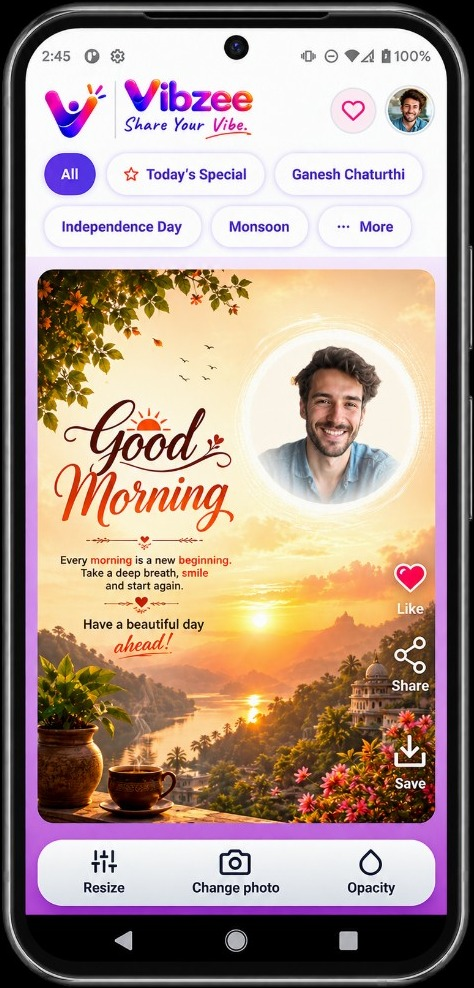
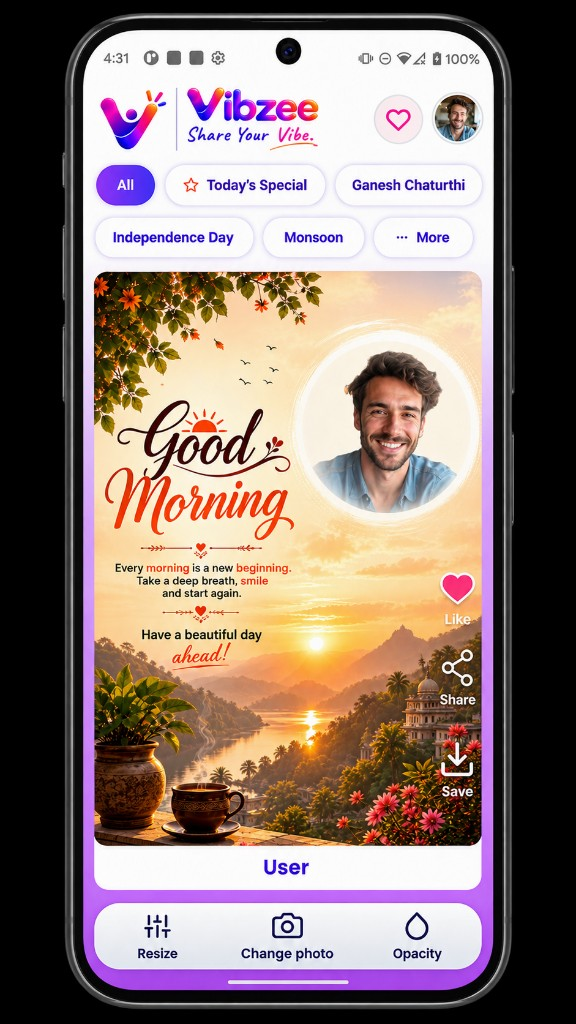
Delete acc addition

diff --git a/assets/site.css b/assets/site.css
@@ -82,7 +82,7 @@ a:hover { text-decoration: underline; }
   align-items: center;
   justify-content: space-between;
   gap: 1rem;
-  padding: 0.75rem 1.5rem;
+  padding: 0.85rem 1.5rem;
   position: sticky;
   top: 0;
   z-index: 50;
@@ -101,18 +101,41 @@ a:hover { text-decoration: underline; }
 .brand img {
   display: block;
   height: auto;
-  max-height: 36px;
+  max-height: 56px;
   width: auto;
 }
 
-.site-header nav { display: flex; gap: 1.25rem; flex-wrap: wrap; }
-.site-header nav a {
-  color: var(--on-surface-variant);
-  font-size: 0.95rem;
-  font-weight: 500;
+.header-actions {
+  display: flex;
+  align-items: center;
+  gap: 1.25rem;
+  flex-wrap: wrap;
+  justify-content: flex-end;
 }
-.site-header nav a:hover { color: var(--primary); text-decoration: none; }
-.site-header nav a[aria-current="page"] { color: var(--primary); font-weight: 700; }
+
+.header-nav {
+  display: flex;
+  align-items: center;
+  gap: 1.15rem;
+  flex-wrap: wrap;
+}
+
+.header-nav a {
+  color: var(--on-surface-variant);
+  font-size: 0.9rem;
+  font-weight: 600;
+  white-space: nowrap;
+}
+
+.header-nav a:hover {
+  color: var(--primary);
+  text-decoration: none;
+}
+
+.header-nav a[aria-current="page"] {
+  color: var(--primary);
+  font-weight: 700;
+}
 
 /* Buttons */
 .btn {
@@ -224,7 +247,7 @@ main {
 
 .hero-logo-desktop {
   display: none;
-  max-width: 128px;
+  max-width: 176px;
   height: auto;
   margin-bottom: 1.5rem;
   filter: drop-shadow(0 4px 16px rgba(255, 52, 205, 0.2));
@@ -280,7 +303,7 @@ main {
   z-index: 1;
   width: 100%;
   max-width: 22rem;
-  aspect-ratio: 474 / 988;
+  aspect-ratio: 456 / 1000;
   background: transparent;
   overflow: visible;
 }
@@ -445,10 +468,30 @@ main {
   margin-bottom: 0.75rem;
   box-shadow: var(--shadow-soft);
   background: var(--surface-container-high);
-  transition: transform 0.3s ease;
+  transition: transform 0.25s ease, box-shadow 0.25s ease, background 0.25s ease, border-color 0.25s ease, color 0.25s ease;
 }
 
-.step-card:hover .step-icon { transform: scale(1.1); }
+.step-card:hover .step-icon {
+  transform: scale(1.12);
+}
+
+.step-card:hover .step-icon-primary {
+  background: rgba(255, 52, 205, 0.22);
+  border-color: var(--primary);
+  box-shadow: 0 12px 28px -6px rgba(255, 52, 205, 0.45);
+}
+
+.step-card:hover .step-icon-secondary {
+  background: rgba(102, 2, 255, 0.22);
+  border-color: var(--secondary);
+  box-shadow: 0 12px 28px -6px rgba(102, 2, 255, 0.45);
+}
+
+.step-card:hover .step-icon-tertiary {
+  background: rgba(209, 125, 0, 0.22);
+  border-color: var(--tertiary);
+  box-shadow: 0 12px 28px -6px rgba(255, 184, 111, 0.4);
+}
 
 .step-icon .material-symbols-outlined { font-size: 2.25rem; }
 .step-icon-primary { border: 1px solid rgba(255, 174, 222, 0.3); color: var(--primary); }
@@ -675,6 +718,16 @@ main {
   border: 1px solid var(--outline-variant);
   color: #fff;
   box-shadow: 0 1px 4px rgba(0, 0, 0, 0.15);
+  cursor: default;
+  transition: transform 0.2s ease, background 0.2s ease, border-color 0.2s ease, box-shadow 0.2s ease, color 0.2s ease;
+}
+
+.theme-chip:hover {
+  background: var(--gradient-cta);
+  border-color: transparent;
+  color: #fff;
+  transform: translateY(-2px) scale(1.06);
+  box-shadow: 0 8px 20px -4px rgba(255, 52, 205, 0.45);
 }
 
 .theme-chip .material-symbols-outlined {
@@ -779,7 +832,7 @@ main {
   display: block;
   margin: 0 auto 0.75rem;
   height: auto;
-  max-height: 32px;
+  max-height: 44px;
   opacity: 0.85;
 }
 
@@ -855,4 +908,7 @@ main {
 
 @media (max-width: 767px) {
   .phone-frame { max-width: 18rem; }
+  .brand img { max-height: 48px; }
+  .header-nav a { font-size: 0.8rem; }
+  .header-actions { gap: 0.75rem; }
 }

diff --git a/delete-account/index.html b/delete-account/index.html
@@ -1,0 +1,55 @@
+<!DOCTYPE html>
+<html lang="en">
+<head>
+  <meta charset="utf-8" />
+  <meta name="viewport" content="width=device-width, initial-scale=1" />
+  <title>Delete Account — Vibzee</title>
+  <meta name="description" content="How to request deletion of your Vibzee mobile app account." />
+  <link rel="stylesheet" href="/assets/site.css" />
+  <link rel="icon" href="/assets/vibzee-icon.png" type="image/png" />
+  <link rel="apple-touch-icon" href="/assets/vibzee-icon.png" />
+  <link rel="preconnect" href="https://fonts.googleapis.com" />
+  <link rel="preconnect" href="https://fonts.gstatic.com" crossorigin />
+  <link href="https://fonts.googleapis.com/css2?family=Plus+Jakarta+Sans:wght@400;600;700;800&display=swap" rel="stylesheet" />
+</head>
+<body>
+  <header class="site-header glass-header">
+    <a class="brand" href="/"><img src="/assets/vibzee-logo.png" alt="Vibzee" width="176" height="72" /></a>
+    <div class="header-actions">
+      <nav class="header-nav" aria-label="Legal">
+        <a href="/privacy">Privacy Policy</a>
+        <a href="/terms">Terms of Service</a>
+        <a href="/delete-account" aria-current="page">Delete Account</a>
+      </nav>
+      <a class="btn btn-gradient btn-sm" href="https://play.google.com/store/apps/details?id=com.vibzee" target="_blank" rel="noopener noreferrer">Get the App</a>
+    </div>
+  </header>
+  <main class="legal">
+    <h1>Delete Account</h1>
+    <article class="cms-content">
+      <p class="updated muted"><strong>Last Updated:</strong> 1 September 2026</p>
+      <p>If you use the Vibzee mobile app and would like to delete your account, you can request account deletion using the instructions below.</p>
+      <h2>How to Request Account Deletion</h2>
+      <p>Users may request deletion of their Vibzee account by emailing <a href="mailto:support@spartacantech.com">support@spartacantech.com</a>.</p>
+      <p>
+        <a class="btn btn-gradient btn-sm" href="mailto:support@spartacantech.com?subject=Vibzee%20Account%20Deletion%20Request">Request Account Deletion</a>
+      </p>
+      <h2>What Happens After Your Request</h2>
+      <p>Following a valid account-deletion request, the user's photograph stored in Vibzee's backend/cloud storage will be automatically deleted within 30 days of the request, subject to any information that Vibzee is legally required or permitted to retain.</p>
+      <h2>Contact</h2>
+      <p>For questions about account deletion, contact us at <a href="mailto:support@spartacantech.com">support@spartacantech.com</a>.</p>
+    </article>
+  </main>
+  <footer class="site-footer">
+    <img src="/assets/vibzee-logo.png" alt="Vibzee" width="128" height="52" class="footer-logo" />
+    <nav class="footer-nav">
+      <a href="/privacy">Privacy Policy</a>
+      <a href="/terms">Terms of Service</a>
+      <a href="/delete-account">Delete Account</a>
+      <a href="mailto:support@vibzee.ai">Contact Us</a>
+    </nav>
+    <p class="muted">&copy; <span id="year"></span> Vibzee. Made with ❤ for India.</p>
+  </footer>
+  <script>document.getElementById('year').textContent = new Date().getFullYear();</script>
+</body>
+</html>

diff --git a/index.html b/index.html
@@ -16,9 +16,16 @@
 <body class="home">
   <header class="site-header glass-header">
     <a class="brand" href="/">
-      <img src="/assets/vibzee-logo.png" alt="Vibzee" width="120" height="49" />
+      <img src="/assets/vibzee-logo.png" alt="Vibzee" width="176" height="72" />
     </a>
-    <a class="btn btn-gradient btn-sm" href="https://play.google.com/store/apps/details?id=com.vibzee" target="_blank" rel="noopener noreferrer">Get the App</a>
+    <div class="header-actions">
+      <nav class="header-nav" aria-label="Legal">
+        <a href="/privacy">Privacy Policy</a>
+        <a href="/terms">Terms of Service</a>
+        <a href="/delete-account">Delete Account</a>
+      </nav>
+      <a class="btn btn-gradient btn-sm" href="https://play.google.com/store/apps/details?id=com.vibzee" target="_blank" rel="noopener noreferrer">Get the App</a>
+    </div>
   </header>
 
   <main>
@@ -26,7 +33,7 @@
     <section class="hero-section">
       <div class="hero-inner">
         <div class="hero-copy">
-          <img class="hero-logo-desktop" src="/assets/vibzee-logo.png" alt="Vibzee" width="128" height="52" />
+          <img class="hero-logo-desktop" src="/assets/vibzee-logo.png" alt="Vibzee" width="176" height="72" />
           <h1>Your photo. Their design. Ready to share.</h1>
           <p class="hero-lede">Browse curated posts and see yourself in every design — one tap to share on WhatsApp ✨</p>
           <div class="hero-actions">
@@ -41,14 +48,13 @@
           </div>
         </div>
         <div class="hero-mockup">
-          <div class="mockup-glow" aria-hidden="true"></div>
           <div class="phone-frame">
             <img
               class="phone-screenshot"
               src="/assets/vibzee-app-demo.png"
               alt="Vibzee app — browse designs, merge your photo, and share"
-              width="474"
-              height="988"
+              width="456"
+              height="1000"
             />
           </div>
         </div>
@@ -185,10 +191,11 @@
   </main>
 
   <footer class="site-footer">
-    <img src="/assets/vibzee-logo.png" alt="Vibzee" width="96" height="39" class="footer-logo" />
+    <img src="/assets/vibzee-logo.png" alt="Vibzee" width="128" height="52" class="footer-logo" />
     <nav class="footer-nav">
       <a href="/privacy">Privacy Policy</a>
       <a href="/terms">Terms of Service</a>
+      <a href="/delete-account">Delete Account</a>
       <a href="mailto:support@vibzee.ai">Contact Us</a>
     </nav>
     <p class="muted">&copy; <span id="year"></span> Vibzee. Made with ❤ for India.</p>

diff --git a/terms/index.html b/terms/index.html
@@ -14,11 +14,15 @@
 </head>
 <body>
   <header class="site-header glass-header">
-    <a class="brand" href="/"><img src="/assets/vibzee-logo.png" alt="Vibzee" width="120" height="49" /></a>
-    <nav>
-      <a href="/terms" aria-current="page">Terms</a>
-      <a href="/privacy">Privacy</a>
-    </nav>
+    <a class="brand" href="/"><img src="/assets/vibzee-logo.png" alt="Vibzee" width="176" height="72" /></a>
+    <div class="header-actions">
+      <nav class="header-nav" aria-label="Legal">
+        <a href="/privacy">Privacy Policy</a>
+        <a href="/terms" aria-current="page">Terms of Service</a>
+        <a href="/delete-account">Delete Account</a>
+      </nav>
+      <a class="btn btn-gradient btn-sm" href="https://play.google.com/store/apps/details?id=com.vibzee" target="_blank" rel="noopener noreferrer">Get the App</a>
+    </div>
   </header>
   <main class="legal">
     <h1>Terms &amp; Conditions</h1>
@@ -56,10 +60,11 @@
     </article>
   </main>
   <footer class="site-footer">
-    <img src="/assets/vibzee-logo.png" alt="Vibzee" width="96" height="39" class="footer-logo" />
+    <img src="/assets/vibzee-logo.png" alt="Vibzee" width="128" height="52" class="footer-logo" />
     <nav class="footer-nav">
       <a href="/privacy">Privacy Policy</a>
       <a href="/terms">Terms of Service</a>
+      <a href="/delete-account">Delete Account</a>
       <a href="mailto:support@vibzee.ai">Contact Us</a>
     </nav>
     <p class="muted">&copy; <span id="year"></span> Vibzee. Made with ❤ for India.</p>

diff --git a/privacy/index.html b/privacy/index.html
@@ -14,11 +14,15 @@
 </head>
 <body>
   <header class="site-header glass-header">
-    <a class="brand" href="/"><img src="/assets/vibzee-logo.png" alt="Vibzee" width="120" height="49" /></a>
-    <nav>
-      <a href="/terms">Terms</a>
-      <a href="/privacy" aria-current="page">Privacy</a>
-    </nav>
+    <a class="brand" href="/"><img src="/assets/vibzee-logo.png" alt="Vibzee" width="176" height="72" /></a>
+    <div class="header-actions">
+      <nav class="header-nav" aria-label="Legal">
+        <a href="/privacy" aria-current="page">Privacy Policy</a>
+        <a href="/terms">Terms of Service</a>
+        <a href="/delete-account">Delete Account</a>
+      </nav>
+      <a class="btn btn-gradient btn-sm" href="https://play.google.com/store/apps/details?id=com.vibzee" target="_blank" rel="noopener noreferrer">Get the App</a>
+    </div>
   </header>
   <main class="legal">
     <h1>Privacy Policy</h1>
@@ -60,10 +64,11 @@
     </article>
   </main>
   <footer class="site-footer">
-    <img src="/assets/vibzee-logo.png" alt="Vibzee" width="96" height="39" class="footer-logo" />
+    <img src="/assets/vibzee-logo.png" alt="Vibzee" width="128" height="52" class="footer-logo" />
     <nav class="footer-nav">
       <a href="/privacy">Privacy Policy</a>
       <a href="/terms">Terms of Service</a>
+      <a href="/delete-account">Delete Account</a>
       <a href="mailto:support@vibzee.ai">Contact Us</a>
     </nav>
     <p class="muted">&copy; <span id="year"></span> Vibzee. Made with ❤ for India.</p>
